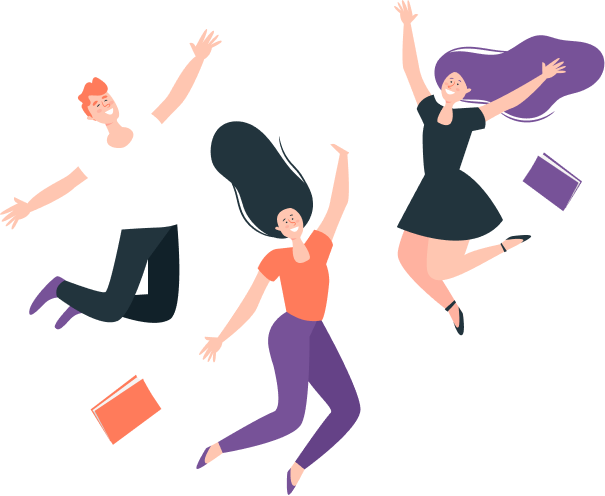
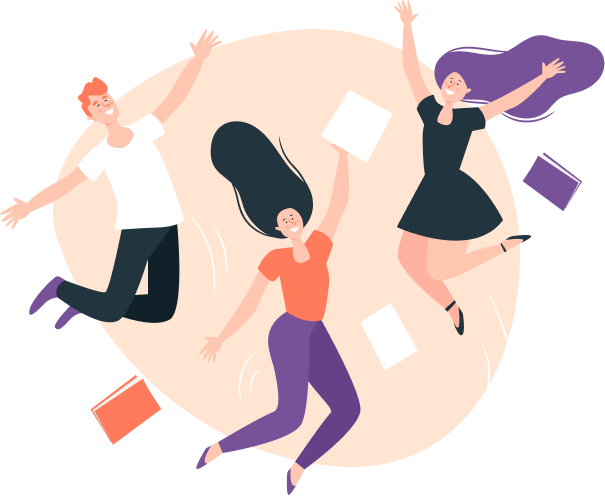
first section

diff --git a/css/index.css b/css/index.css
@@ -6,6 +6,10 @@ body {
 .container {
     display: flex;
     flex-direction: column;
+    width: 1109px;
+    margin-left: 50px;
+    margin-right: 50px;
+
 }
 
 header {
@@ -39,7 +43,7 @@ li {
     margin: 20px;
 }
 
-img {
+.logo {
     width: 185.34px;
     height: 31.97px;
 }
@@ -77,3 +81,78 @@ img {
     justify-content: center;  
 }
 
+
+.section {
+    display: flex;
+    flex-direction: row;
+    align-items: center;
+    margin-left: 144px; 
+    width: 1109px;
+    margin-top: 30px;
+}
+
+.first
+
+.textbox-one {
+    width: 518px;
+}
+
+.imagebox-one  {
+    width: 50%;
+    margin-left: 30px;
+}
+
+.first h2 {
+    color: #2F281E;
+    font-size: 44px;
+    font-family: Poppins;
+    font-weight: 700;
+    line-height: 54px;
+}
+
+.first p {
+    color: #544837;
+    font-size: 18px;
+    font-family:'Poppins', sans-serif;
+    font-weight: 400;
+    line-height: 28px;
+    margin-top: 30px;
+    margin-bottom: 40px;
+}
+
+.getStarted{
+    background-color: #FF9900;
+    color: #FFFFFF;
+    width: 175px;
+    height: 53px;
+    border: none;
+    border-radius: 4px; 
+    font-size: 16px;
+    font-family:'Poppins', sans-serif;
+    font-weight: 700;
+}
+
+.watchVideo {
+    color: #FF9900;
+    background-color: #FFFFFF;
+    border: none;
+    color: #FF9900;
+    font-size: 16px;
+    font-family:'Poppins', sans-serif;
+    font-weight: 600;
+    text-decoration: underline;
+}
+
+.triangle {
+    width: 20px;
+    height: 17px;
+    margin-right: 5px;
+    margin-left: 20px;;
+}
+
+.buttonbox-one {
+    display: flex;
+    flex-direction: row;
+    align-items: center;
+    margin: 5px;
+}

diff --git a/index.html b/index.html
@@ -28,8 +28,28 @@
             </nav>
         </header>
 
-        <div class="section first"></div>
+        <div class="section first">
+            <div class="textbox-one">
+                <h2>The Design Thinking superpowers</h2>
+                <p>Tools, tutorials, design and innovation experts, all in one place! The most intuitive way to imagine your next user experience.</p>
+                <div class="buttonbox-one">
+                    <button type="button" class="getStarted">Get started</button>
+                    <button type="button" class="watchVideo"><img src="img/Triangle Copy 6.svg" alt="triangle icon" class="triangle">Watch the Video</button> 
+                </div>
+            </div>
+            <div class="imagebox-one"><img src="img/superpowers.png" alt="people jumping smiling books flying in air">
+            </div>
+        </div>
+
+
+
+
+
         <div class="section second"></div>
+            
+
+
+
         <div class="section third"></div>
         <div class="section fourth"></div>
         <div class="section fifth"></div>
